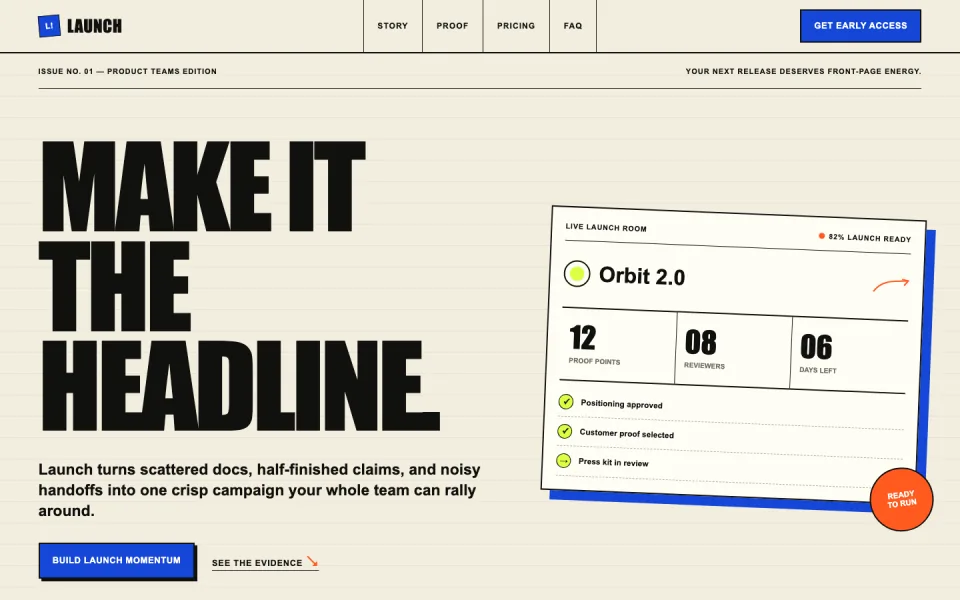
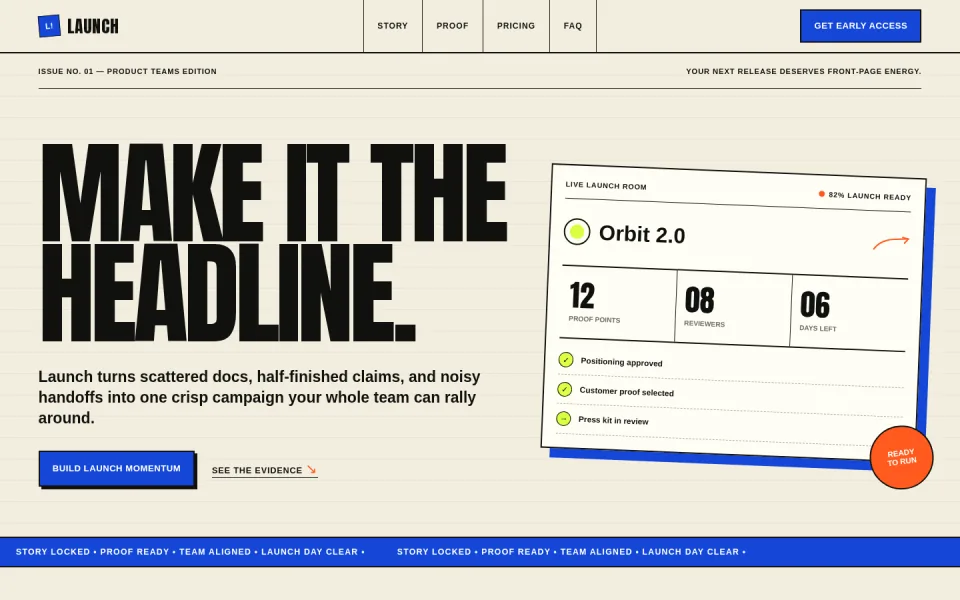
[HSTG-23219] Self-host launch display font for deterministic rendering (#31)

diff --git a/templates/launch/src/app/layout.tsx b/templates/launch/src/app/layout.tsx
@@ -1,9 +1,18 @@
 import type { Metadata } from "next";
+import { Anton } from "next/font/google";
 import type { ReactNode } from "react";
 import { siteContent } from "@/content/site";
 import "@/styles/foundation.css";
 import "@/styles/sections.css";
 import "@/styles/responsive.css";
+
+// Self-hosted at build time so the display face renders identically on every
+// OS. Impact (the previous system font) is not installed on Linux.
+const display = Anton({
+  variable: "--font-display",
+  subsets: ["latin"],
+  weight: "400",
+});
 
 export const metadata: Metadata = {
   title: siteContent.meta.title,
@@ -12,7 +21,7 @@ export const metadata: Metadata = {
 
 export default function RootLayout({ children }: Readonly<{ children: ReactNode }>) {
   return (
-    <html lang="en">
+    <html lang="en" className={display.variable}>
       <body>{children}</body>
     </html>
   );

diff --git a/templates/launch/src/styles/foundation.css b/templates/launch/src/styles/foundation.css
@@ -7,7 +7,7 @@
   --muted: #706d64;
   --line: 2px solid var(--ink);
   --pad: clamp(1.25rem, 4vw, 4.5rem);
-  --display: Impact, Haettenschweiler, "Arial Narrow Bold", sans-serif;
+  --display: var(--font-display), Impact, Haettenschweiler, "Arial Narrow Bold", sans-serif;
   --body: Arial, Helvetica, sans-serif;
 }
 
@@ -17,6 +17,9 @@
 
 html {
   scroll-behavior: smooth;
+  /* The display face ships one weight; do not let the browser fake a bold
+     on headings. No effect on Arial/Georgia, which have real bold faces. */
+  font-synthesis: none;
 }
 
 body {
